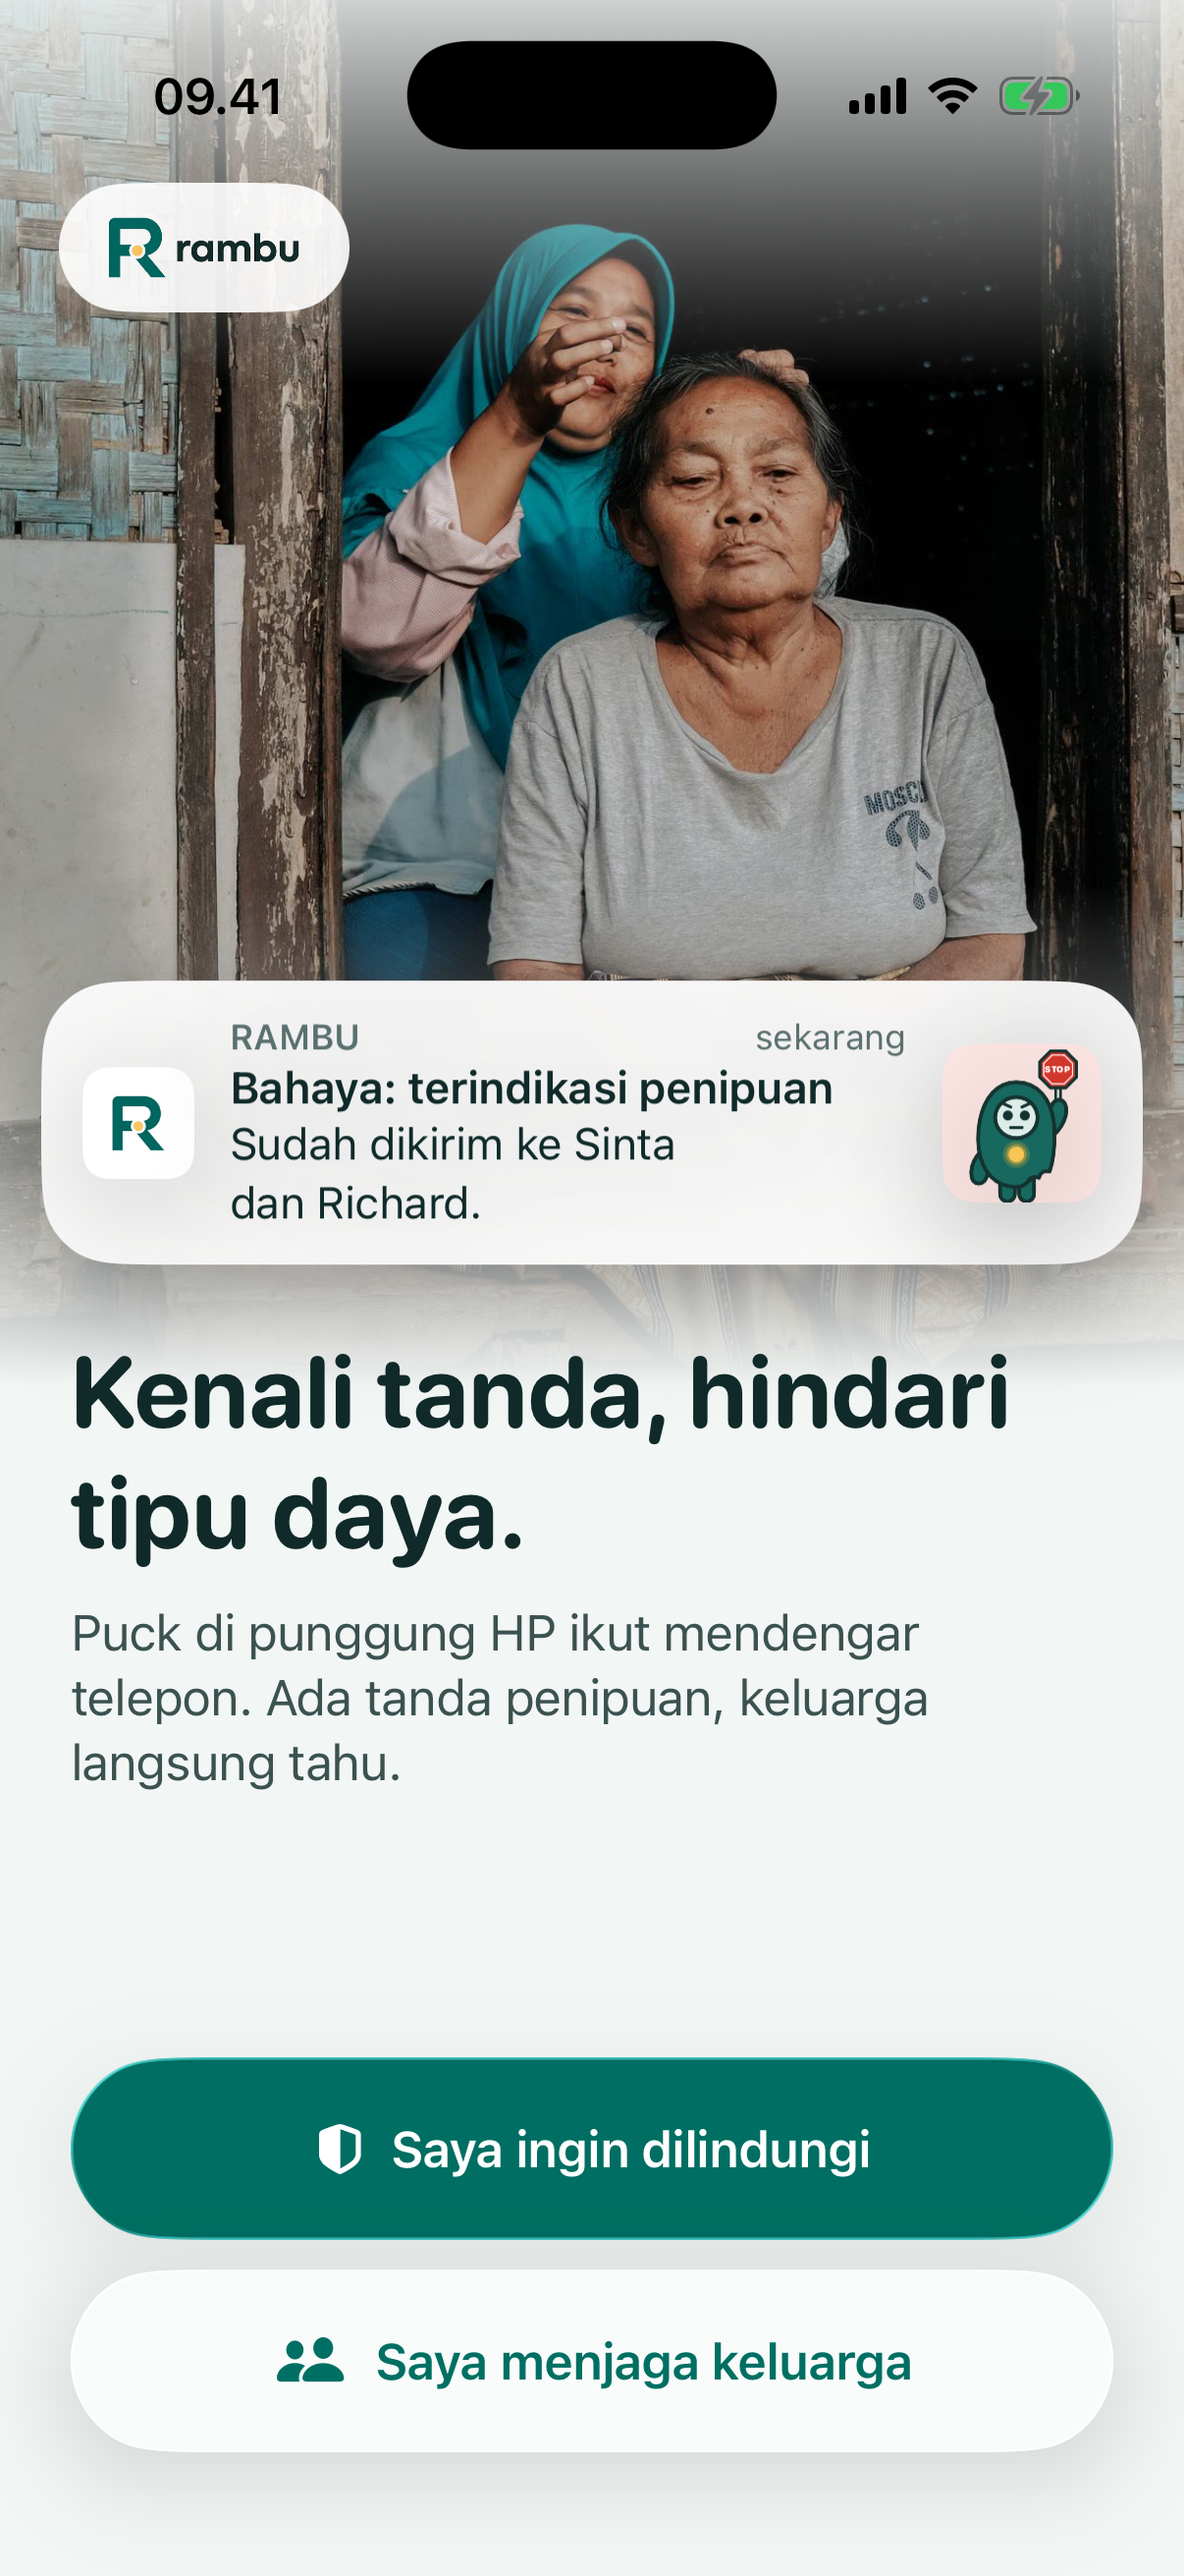
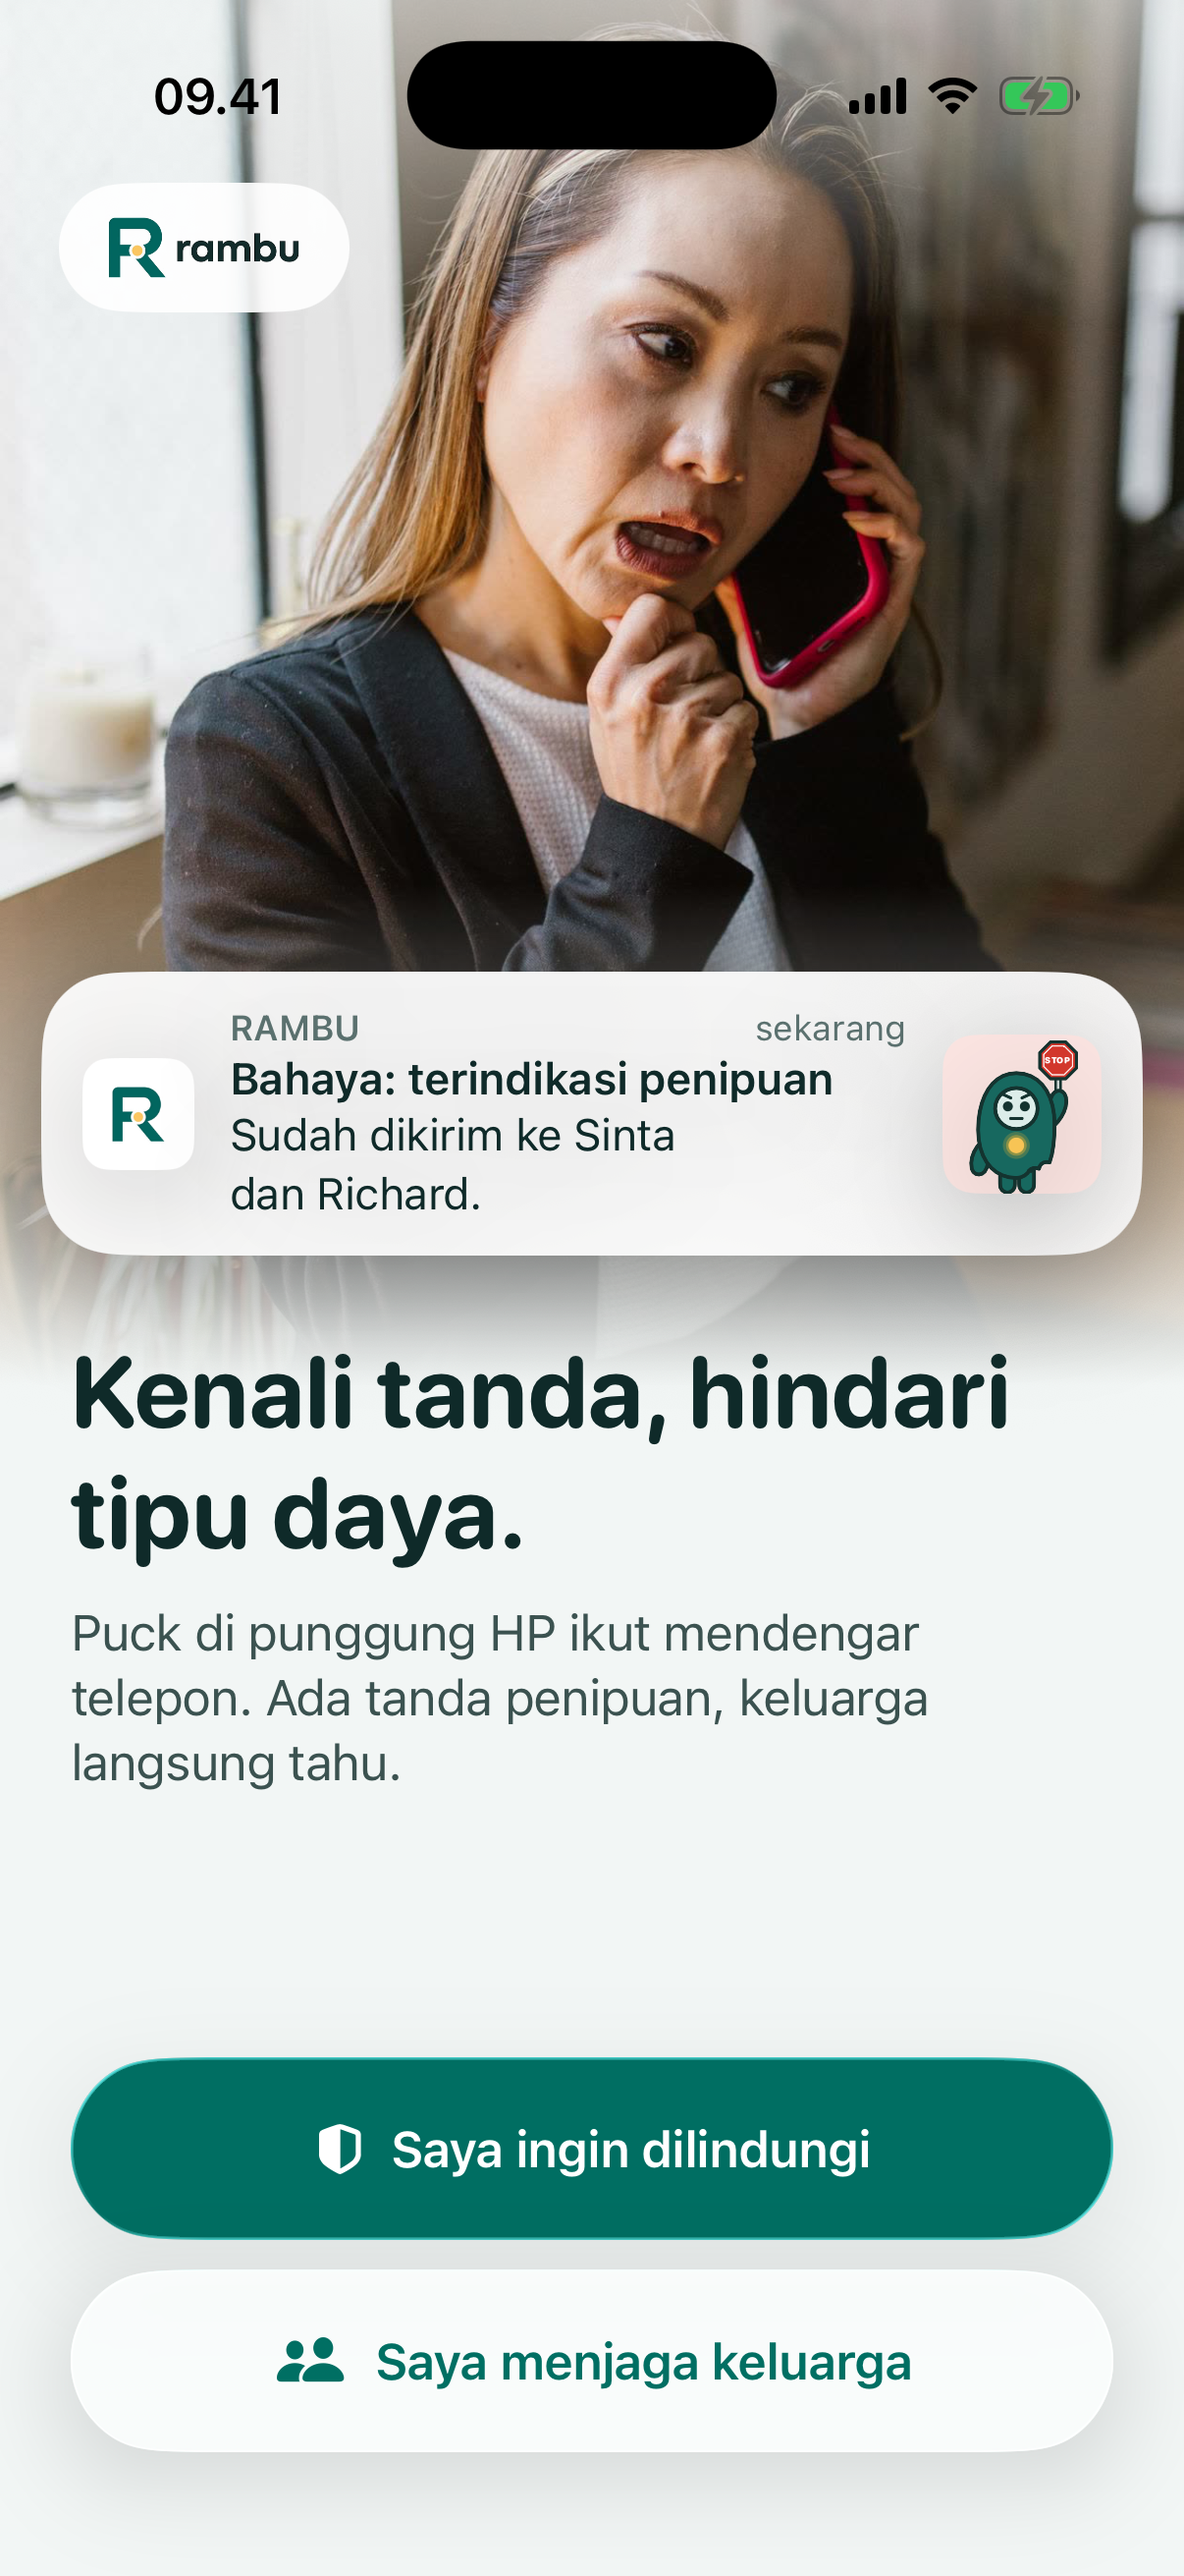
Swap the welcome photo for a mother in her 40s
The cover now shows an East Asian woman of about 40, worried on a phone
call in a well-kept home. The photo is anchored to the top so her face
stays in frame, and the top fade is lighter. Photo by RDNE Stock project
(Pexels).

diff --git a/ios/RambuPuck/Features/Onboarding/OnboardingViews.swift b/ios/RambuPuck/Features/Onboarding/OnboardingViews.swift
@@ -101,16 +101,17 @@ private struct WelcomeStep: View {
     var body: some View {
         ScrollView {
             VStack(alignment: .leading, spacing: 0) {
-                // Foto asli: ibu dan anak di Bandung (Tuti Isnawati, Pexels).
-                Image("PhotoWelcome")
-                    .resizable()
-                    .scaledToFill()
+                // Foto asli: ibu menelepon dengan cemas di rumah (RDNE Stock project, Pexels).
+                Color.clear
                     .frame(height: 470)
                     .frame(maxWidth: .infinity)
+                    .overlay(alignment: .top) {
+                        Image("PhotoWelcome").resizable().scaledToFill()
+                    }
                     .clipped()
                     .overlay(alignment: .top) {
-                        LinearGradient(colors: [Brand.canvas.opacity(0.85), .clear], startPoint: .top, endPoint: .bottom)
-                            .frame(height: 130)
+                        LinearGradient(colors: [Brand.canvas.opacity(0.6), .clear], startPoint: .top, endPoint: .bottom)
+                            .frame(height: 110)
                     }
                     .overlay(alignment: .bottom) {
                         LinearGradient(colors: [.clear, Brand.canvas], startPoint: .top, endPoint: .bottom)
@@ -136,7 +137,7 @@ private struct WelcomeStep: View {
                                 .transition(.move(edge: .top).combined(with: .opacity))
                         }
                     }
-                    .accessibilityLabel("Seorang ibu dan anaknya duduk di teras rumah")
+                    .accessibilityLabel("Seorang ibu menelepon dengan raut cemas di rumah")
 
                 VStack(alignment: .leading, spacing: 10) {
                     Text("Kenali tanda, hindari tipu daya.")

diff --git a/ios/README.md b/ios/README.md
@@ -117,7 +117,7 @@ ios/
 
 Foto asli dari Pexels (lisensi Pexels, bebas dipakai termasuk komersial):
 
-- `PhotoWelcome`: ibu dan anak di teras rumah, Bandung. Foto oleh Tuti Isnawati.
+- `PhotoWelcome`: ibu usia sekitar 40 menelepon dengan cemas di rumah. Foto oleh RDNE Stock project.
 - `PhotoGuardian`: perempuan melihat HP. Foto oleh Tia Rahayu.
 
 Slot yang menunggu gambar (tampil ilustrasi cadangan selama asetnya belum ada). Tambahkan sebagai image set dengan nama persis ini di `Assets.xcassets`:
